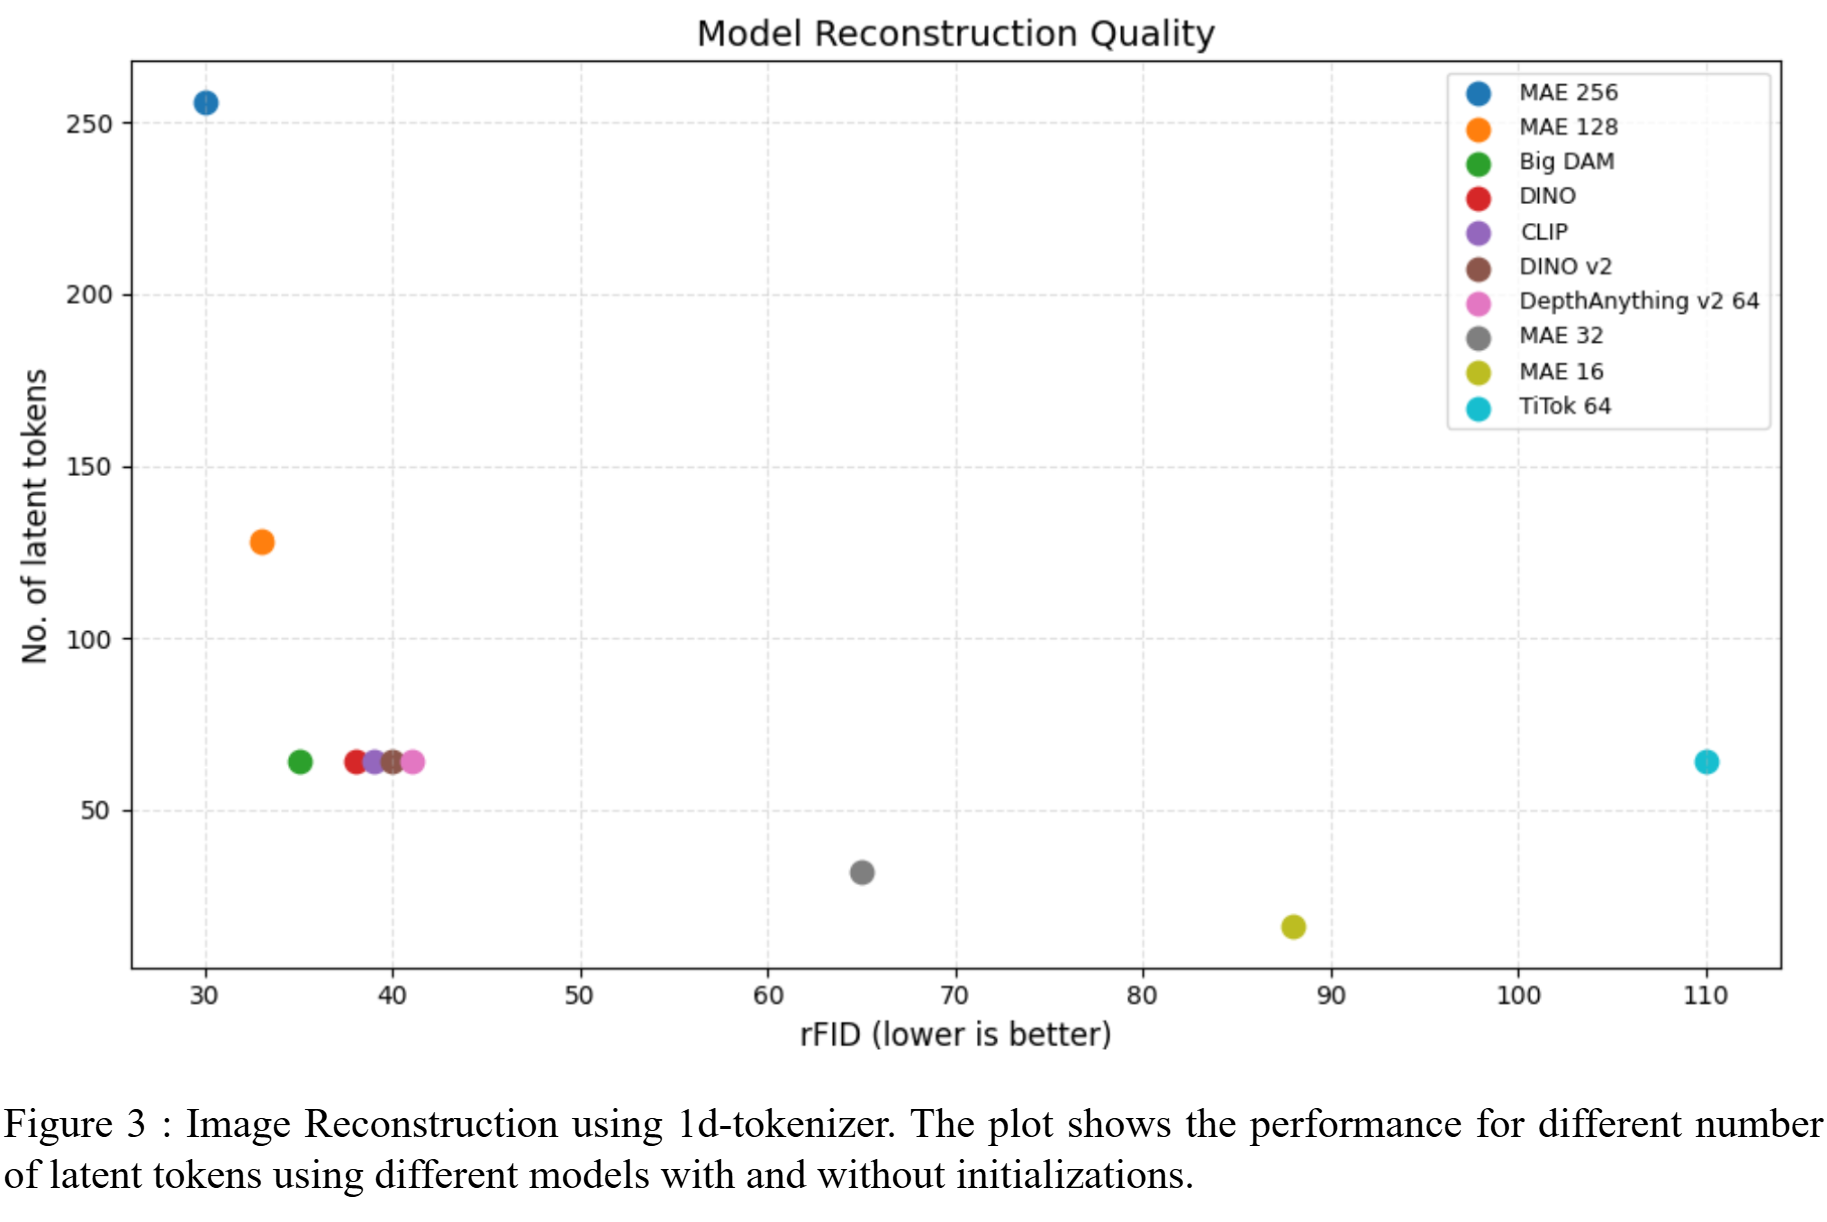
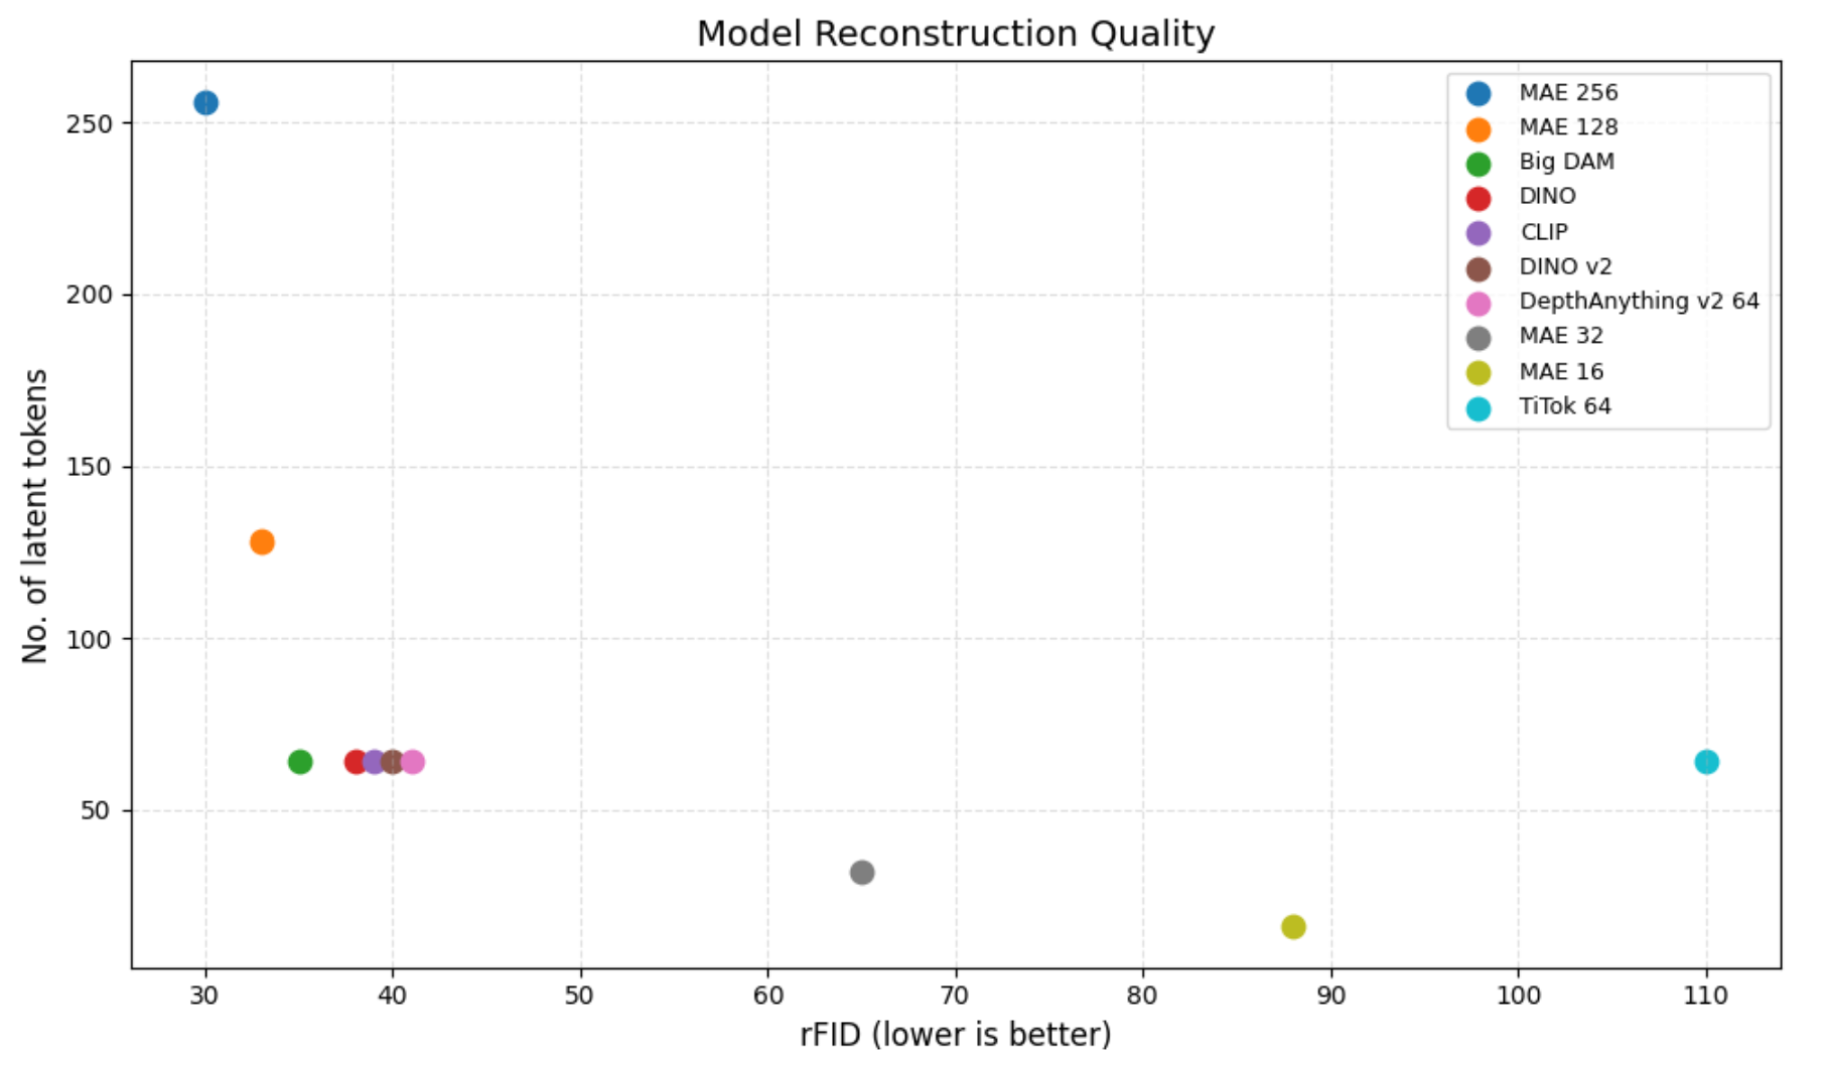
1d-tokenizer

diff --git a/README.md b/README.md
@@ -2,8 +2,16 @@
 
 This repository hosts the code for reconstructing an image using varied number of learnable latent tokens (eg. 16, 32, 64, 128, 256) using uninitialized and initialized models (eg. MAE, CLIP, DINO, DINO-v2 and Depth-Anything v2). 
 
-<img src="images/reconstructions.png" width="200"/>
-<img src="images/token_reconstructions.png" width="200"/>
+<table>
+  <tr>
+    <td align="center"><img src="images/reconstructions.png" width="300"/></td>
+    <td align="center"><img src="images/token_reconstructions.png" width="400"/></td>
+  </tr>
+  <tr>
+    <td align="center">Figure 1 : Image Reconstructions using 64 tokens and different models</td>
+    <td align="center">Figuare 2 : Image Reconstructions usinf 1d-tokenizer. Greater the number of latent tokens used for reconstruction, higher is the quality of reconstructed image (equivalent to Baseline)</td>
+  </tr>
+</table>
 
 ## Contributions 
 
@@ -26,6 +34,14 @@ Checkpoints for the model trained using 64 tokens. Checkpoints for the same in '
 | Big Dataset - MAE     |   33.19   |
 
 ![Model Performance](images/rFIDs.png)
+<table>
+  <tr>
+    <td align="center"><img src="images/rFIDs.png" width="500"/></td>
+  </tr>
+  <tr>
+    <td align="center">Figure 3 : Image Reconstructions using 1d-tokenizer. The plot shows the performance of varied models using different number of latent tokens</td>
+  </tr>
+</table>
 
 ## Requirements
 A suitable python environment (For eg. `mamba`) named `tokenization` can be created and activated with:
